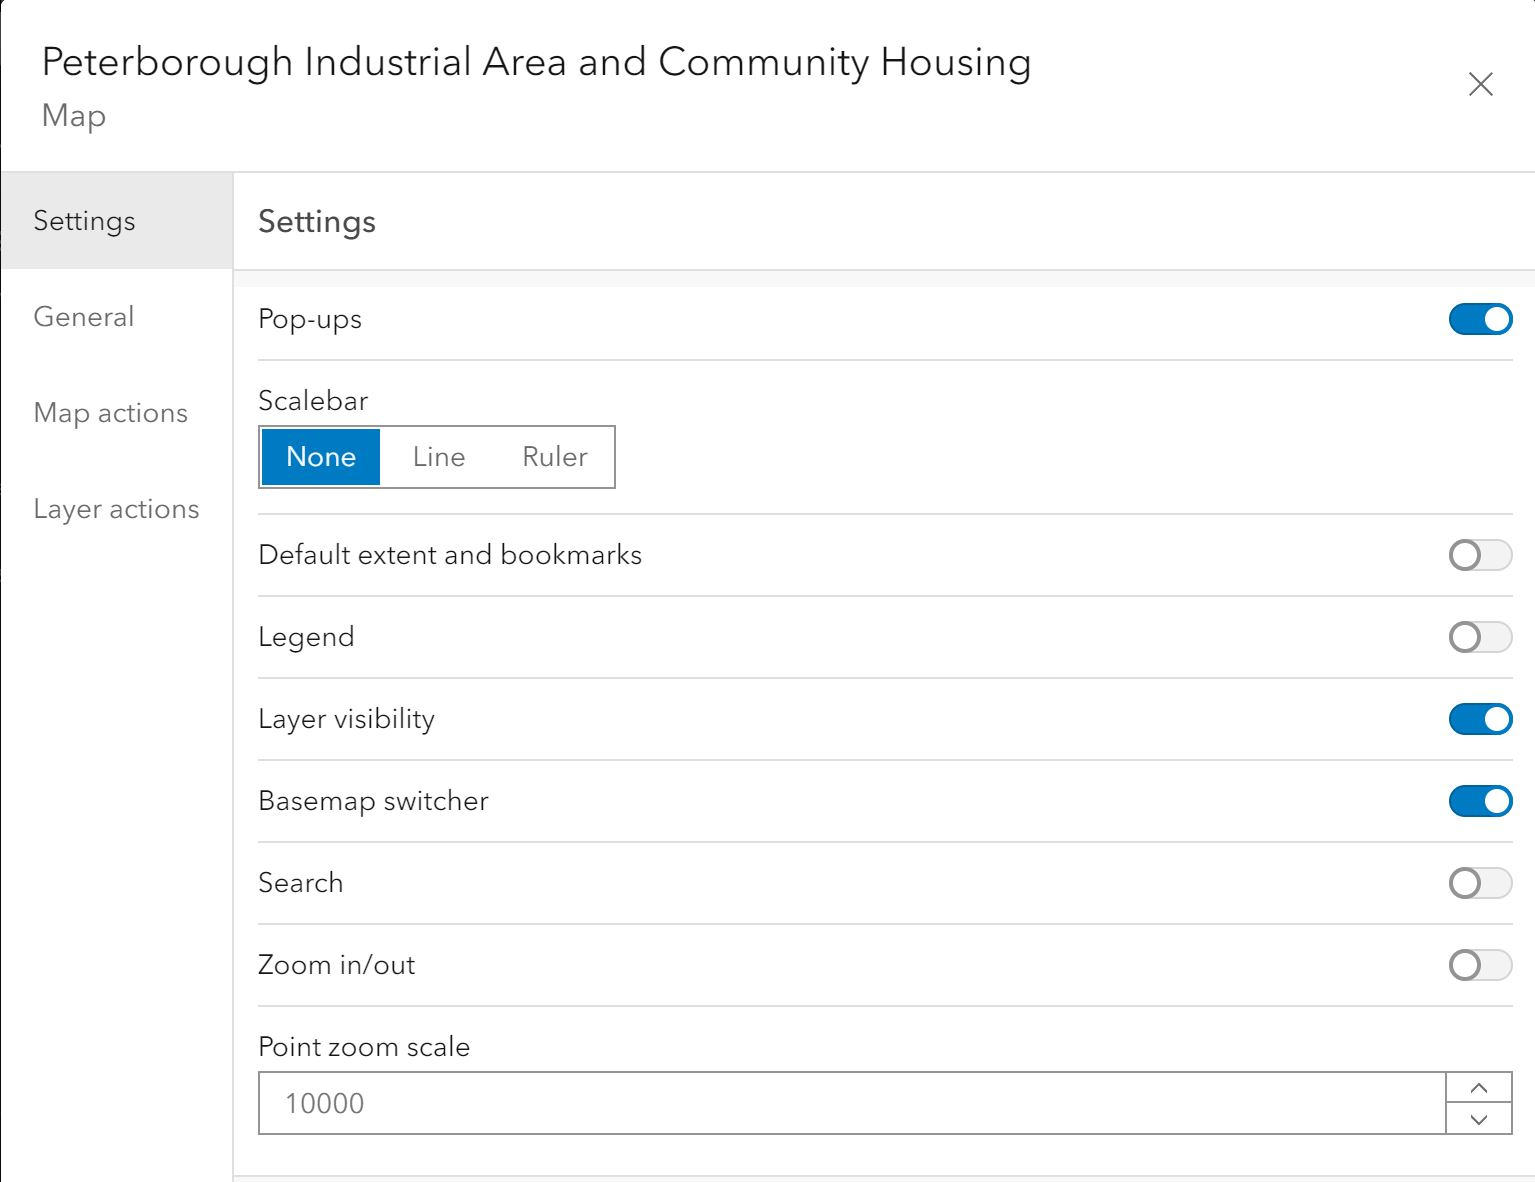
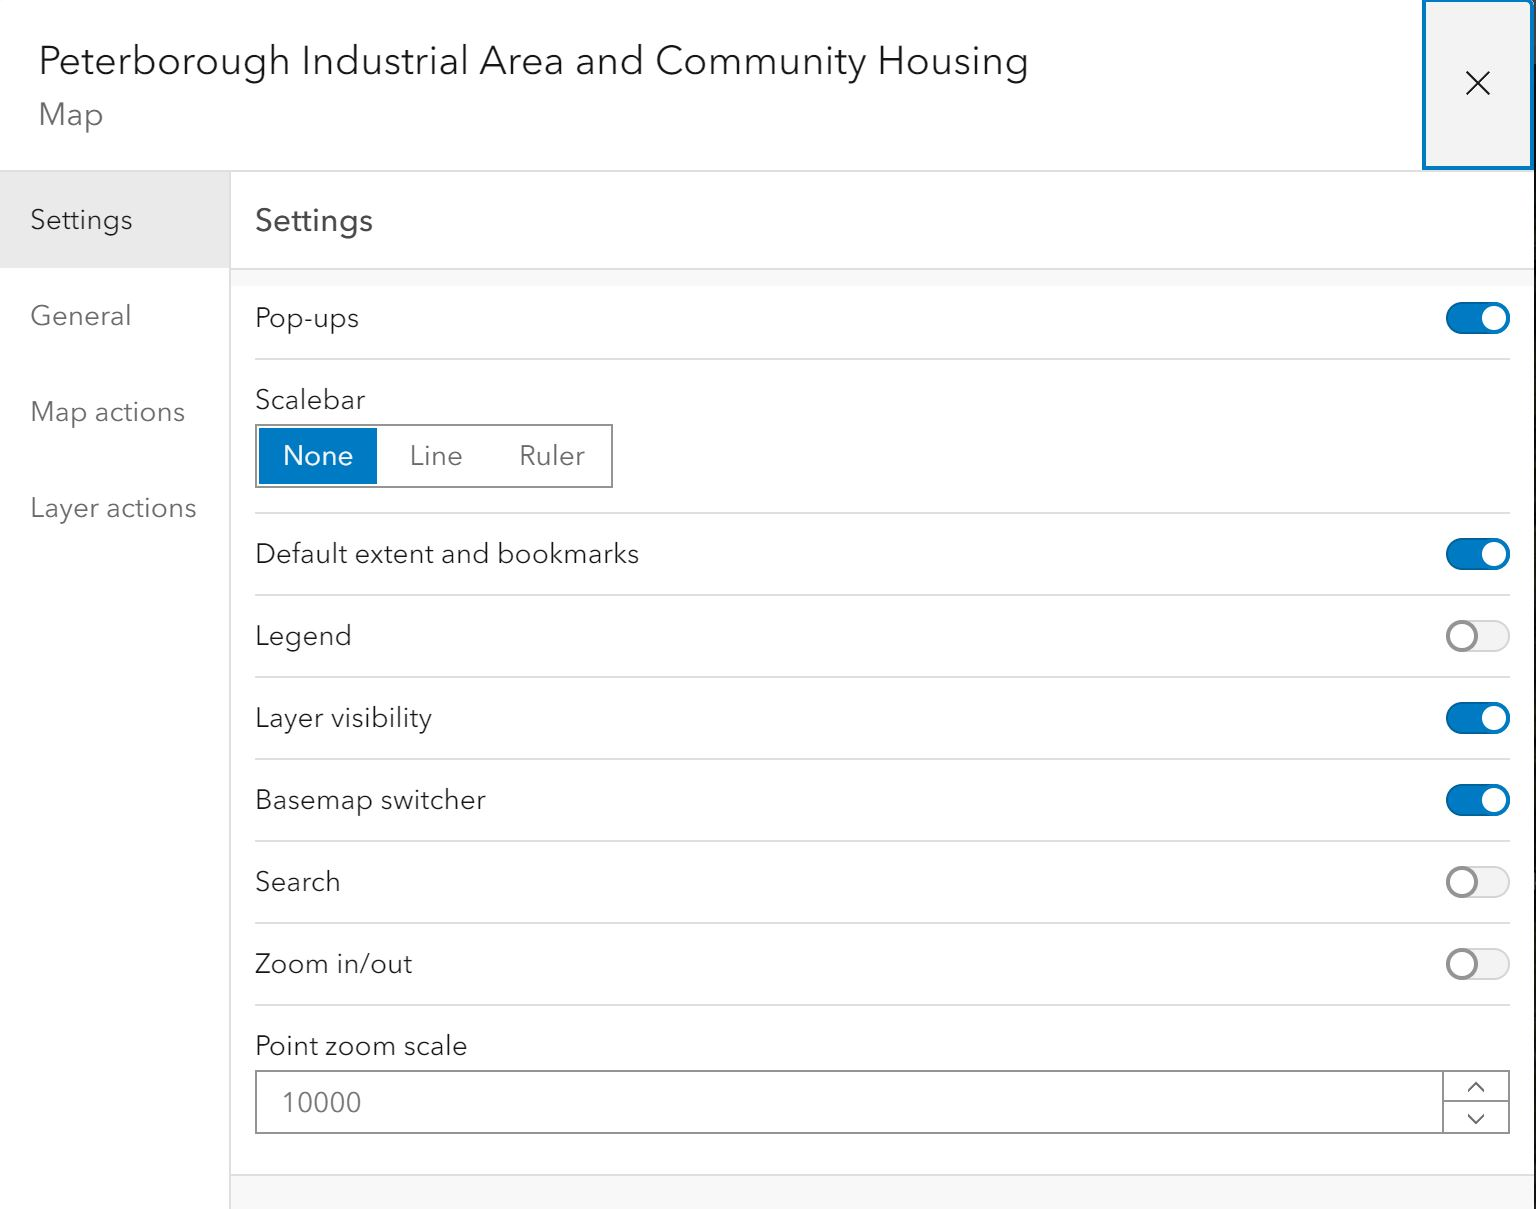
dashboard edits

diff --git a/index.html b/index.html
@@ -110,7 +110,7 @@ Reference: http://www.tooplate.com/view/2109-the-card
                   <img src="img/ds_layout1.jpg" alt="Dashboard Layout items" class="ts_image" />
                   <p>Within the map settings layer visibility, basemap switcher and Pop-ups were enabled. The layer visibility and basemap switcher options added buttons that provided the option to toggle different layers on/off and the switching of basemap types. The pop-up setting enabled the ability to click on features and have a table with the features attributes pop up.</p>
                   <img src="img/ds_mapsettings.JPG" alt="Dashboard Map Settings" class="ts_image2" />
-                  <p>A list body element was used to create a list of Community Housing. The list was then sorted by the area field and the flash, show pop up and zoom options were enabled. When a item is selected in the list, a pop up table of the community housing features attribute table will appear and the feature will flash and zoom to its location on the map</p>
+                  <p>A list body element was used to create a list of Community Housing. The list was then sorted by the area field and the flash, show pop up and zoom options were enabled. When a item is selected in the list, a pop up table of the community housing features attribute table will appear and the feature will flash and zoom to its location on the map. Default extent and bookmarks was also enabled to allow the user to click a button to return to the original map extent.</p>
                   <img src="img/ds_listsort.JPG" alt="Dashboard List" class="ts_image">
                   <style>.embed-container {position: relative; padding-bottom: 80%; height: 0; max-width: 100%;} .embed-container iframe, .embed-container object, .embed-container iframe{position: absolute; top: 0; left: 0; width: 100%; height: 100%;} small{position: absolute; z-index: 40; bottom: 0; margin-bottom: -15px;}</style><div class="embed-container"><iframe width="500" height="400" frameborder="0" scrolling="no" marginheight="0" marginwidth="0" title="Community Housing and Industrial Areas in Peterborough" src="https://www.arcgis.com/apps/dashboards/16d20e7b0d084abbbc6ca6e2ac2d2b1f"></iframe></div>
                   <p>Out of the 3 options explored the Dashboard proved the most limited in it's ability to effectively tell the sort of detailed story that we were aiming for. It would be better suited to communicate information in a quick and simple manner. We also discovered that without heavy editing in the web map the dashboard was limited ability display information in a meaningful way. The other element items, such as the pie chart, indicator, gauge, and serial chart items, they were deemed not appropriate as we lacked the quantitative data necessary for these to be of use. </p>
